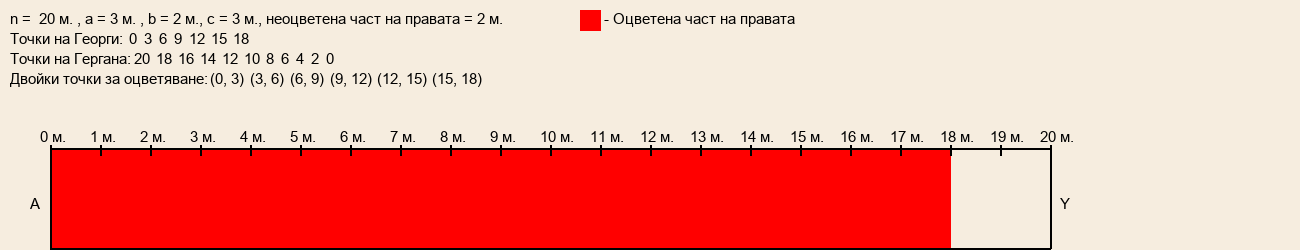
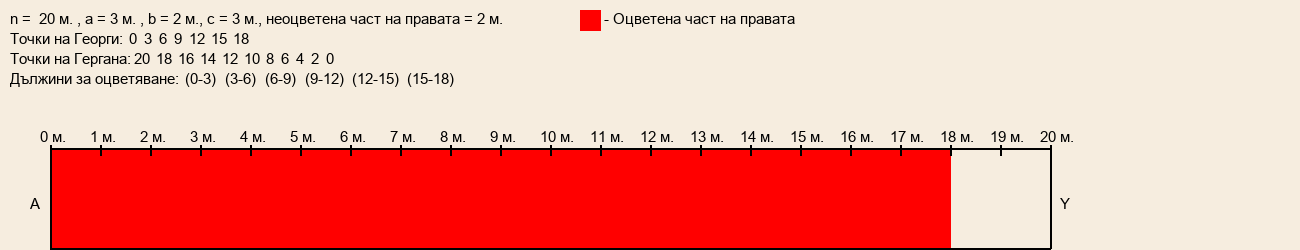
Fixing the visualisation for the segment task

Changed region(s): [[0.0, 0.28, 0.3692, 0.364]]

diff --git a/tasks/fast/segments.py b/tasks/fast/segments.py
@@ -73,7 +73,7 @@ def drawImage(colored, result, n, c, a, b,points_Gergana,points_Georgi):
     H = 250
     startx = maxwidth
     starty = 150
-    pairend = 170
+    pairend = 145
     georgiend = 125
     gerganaend = 130
     image = Image.new('RGB', (Wimg + (2*maxwidth) + 200, H), (246, 237, 223))
@@ -85,7 +85,7 @@ def drawImage(colored, result, n, c, a, b,points_Gergana,points_Georgi):
 
     i = 0
     drawing.text((10, 70),
-                 "Двойки точки за оцветяване:",
+                 "Дължини за оцветяване:",
                  fill=0, font=textfont)
     while i < len(colored) - 1:
         if colored[i + 1] - colored[i] == c:
@@ -97,7 +97,7 @@ def drawImage(colored, result, n, c, a, b,points_Gergana,points_Georgi):
             else:
                 pairend = pairend + 40
             drawing.text((pairend, 70),
-                 "({:d}, {:d}) ".format(colored[i],colored[i+1]),
+                 "({:d}-{:d}) ".format(colored[i],colored[i+1]),
                  fill=(0, 0, 0, 0), font=textfont)
             drawing.rectangle(
                 xy=[colored[i] * maxwidth +startx, starty, colored[i + 1] * maxwidth+startx, starty + 100],
@@ -153,7 +153,7 @@ def drawImage(colored, result, n, c, a, b,points_Gergana,points_Georgi):
     drawing.text((startx-20, 195), "A", fill=(0, 0, 0, 0), font=textfont, size=25)
     drawing.text((maxwidth*(n+1)+10, 195), "Y", fill=(0, 0, 0, 0), font=textfont, size=25)
 
-    image.save("segments2.png")
+    image.save("segments.png")
 
 
 drawImage(colored, result, n, c, a, b,points_Gergana,points_Georgi)
